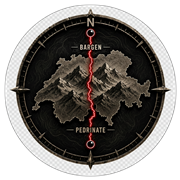
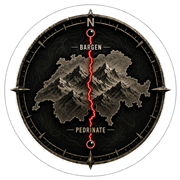
flagge

Changed region(s): [[0.0278, 0.0278, 0.9722, 0.9722]]

diff --git a/docs/index.html b/docs/index.html
@@ -6,24 +6,30 @@
     <title>NorthLine – Home</title>
     <meta name="description" content="NorthLine è il tracker live dell'avventura svizzera: mappa, statistiche, diario, replay e meteo in un unico sito.">
     <meta name="viewport" content="width=device-width, initial-scale=1.0">
+    <link rel="canonical" href="https://damzan06.github.io/northline/">
     <meta property="og:title" content="NorthLine – Live Tracker">
     <meta property="og:description" content="Mappa live, statistiche e diario dell'avventura NorthLine.">
     <meta property="og:type" content="website">
-    <meta property="og:image" content="https://damzan06.github.io/northline/assets/preview.png?v=20260715p">
+    <meta property="og:url" content="https://damzan06.github.io/northline/">
+    <meta property="og:image" content="https://damzan06.github.io/northline/assets/preview.png?v=20260715s">
+    <meta property="og:image:secure_url" content="https://damzan06.github.io/northline/assets/preview.png?v=20260715s">
+    <meta property="og:image:type" content="image/png">
     <meta property="og:image:width" content="1254">
     <meta property="og:image:height" content="1254">
     <meta name="twitter:card" content="summary_large_image">
-    <meta name="twitter:image" content="https://damzan06.github.io/northline/assets/preview.png?v=20260715p">
+    <meta name="twitter:title" content="NorthLine – Live Tracker">
+    <meta name="twitter:description" content="Mappa live, statistiche e diario dell'avventura NorthLine.">
+    <meta name="twitter:image" content="https://damzan06.github.io/northline/assets/preview.png?v=20260715s">
     <link rel="stylesheet" href="style.css">
-    <link rel="icon" type="image/png" sizes="32x32" href="assets/favicon-32.png?v=20260715q">
-    <link rel="icon" type="image/png" href="assets/favicon-v2.png?v=20260715q">
-    <link rel="apple-touch-icon" href="assets/apple-touch-icon.png?v=20260715q">
+    <link rel="icon" type="image/png" sizes="32x32" href="assets/favicon-32.png?v=20260715r">
+    <link rel="icon" type="image/png" href="assets/favicon-v2.png?v=20260715r">
+    <link rel="apple-touch-icon" href="assets/apple-touch-icon.png?v=20260715r">
 </head>
 
 <body data-page="home">
     <header class="topbar">
         <div class="brand">
-            <img src="assets/favicon-v2.png?v=20260715q" alt="Logo NorthLine" class="brand-icon">
+            <img src="assets/favicon-v2.png?v=20260715r" alt="Logo NorthLine" class="brand-icon">
             <div>
                 <span class="brand-title">NorthLine</span>
                 <span class="brand-subtitle">Adventure Tracker</span>
@@ -134,6 +140,7 @@
     <script src="script.js?v=20260715p"></script>
 </body>
 </html>
+
 
 
 

diff --git a/docs/live.html b/docs/live.html
@@ -6,25 +6,31 @@
     <title>NorthLine – Mappa Live</title>
     <meta name="description" content="Mappa live del NorthLine: posizione, percorso, checkpoint e statistiche in tempo reale.">
     <meta name="viewport" content="width=device-width, initial-scale=1.0">
+    <link rel="canonical" href="https://damzan06.github.io/northline/live.html">
     <meta property="og:title" content="NorthLine – Mappa Live">
     <meta property="og:description" content="Segui la posizione live e i dati aggiornati dell'avventura NorthLine.">
     <meta property="og:type" content="website">
-    <meta property="og:image" content="https://damzan06.github.io/northline/assets/preview.png?v=20260715p">
+    <meta property="og:url" content="https://damzan06.github.io/northline/live.html">
+    <meta property="og:image" content="https://damzan06.github.io/northline/assets/preview.png?v=20260715s">
+    <meta property="og:image:secure_url" content="https://damzan06.github.io/northline/assets/preview.png?v=20260715s">
+    <meta property="og:image:type" content="image/png">
     <meta property="og:image:width" content="1254">
     <meta property="og:image:height" content="1254">
     <meta name="twitter:card" content="summary_large_image">
-    <meta name="twitter:image" content="https://damzan06.github.io/northline/assets/preview.png?v=20260715p">
+    <meta name="twitter:title" content="NorthLine – Mappa Live">
+    <meta name="twitter:description" content="Segui la posizione live e i dati aggiornati dell'avventura NorthLine.">
+    <meta name="twitter:image" content="https://damzan06.github.io/northline/assets/preview.png?v=20260715s">
     <link rel="stylesheet" href="style.css?v=20260715e">
     <link rel="stylesheet" href="https://unpkg.com/leaflet/dist/leaflet.css">
-    <link rel="icon" type="image/png" sizes="32x32" href="assets/favicon-32.png?v=20260715q">
-    <link rel="icon" type="image/png" href="assets/favicon-v2.png?v=20260715q">
-    <link rel="apple-touch-icon" href="assets/apple-touch-icon.png?v=20260715q">
+    <link rel="icon" type="image/png" sizes="32x32" href="assets/favicon-32.png?v=20260715r">
+    <link rel="icon" type="image/png" href="assets/favicon-v2.png?v=20260715r">
+    <link rel="apple-touch-icon" href="assets/apple-touch-icon.png?v=20260715r">
 </head>
 
 <body data-page="live">
     <header class="topbar">
         <div class="brand">
-            <img src="assets/favicon-v2.png?v=20260715q" alt="Logo NorthLine" class="brand-icon">
+            <img src="assets/favicon-v2.png?v=20260715r" alt="Logo NorthLine" class="brand-icon">
             <div>
                 <span class="brand-title">NorthLine</span>
                 <span class="brand-subtitle">Live Tracker</span>
@@ -134,6 +140,7 @@
     <script src="script.js?v=20260715p"></script>
 </body>
 </html>
+
 
 
 

diff --git a/docs/dashboard.html b/docs/dashboard.html
@@ -10,24 +10,24 @@
     <meta property="og:description" content="Statistiche live e grafici dell'avventura NorthLine.">
     <meta property="og:type" content="website">
     <meta property="og:url" content="https://damzan06.github.io/northline/dashboard.html">
-    <meta property="og:image" content="https://damzan06.github.io/northline/assets/preview.png?v=20260715p">
-    <meta property="og:image:secure_url" content="https://damzan06.github.io/northline/assets/preview.png?v=20260715p">
+    <meta property="og:image" content="https://damzan06.github.io/northline/assets/preview.png?v=20260715s">
+    <meta property="og:image:secure_url" content="https://damzan06.github.io/northline/assets/preview.png?v=20260715s">
     <meta property="og:image:type" content="image/png">
     <meta property="og:image:width" content="1254">
     <meta property="og:image:height" content="1254">
     <meta name="twitter:card" content="summary_large_image">
     <meta name="twitter:title" content="NorthLine – Dashboard">
     <meta name="twitter:description" content="Statistiche live e grafici dell'avventura NorthLine.">
-    <meta name="twitter:image" content="https://damzan06.github.io/northline/assets/preview.png?v=20260715p">
+    <meta name="twitter:image" content="https://damzan06.github.io/northline/assets/preview.png?v=20260715s">
     <link rel="stylesheet" href="style.css?v=20260715p">
-    <link rel="icon" type="image/png" sizes="32x32" href="assets/favicon-32.png?v=20260715q">
-    <link rel="icon" type="image/png" href="assets/favicon-v2.png?v=20260715q">
-    <link rel="apple-touch-icon" href="assets/apple-touch-icon.png?v=20260715q">
+    <link rel="icon" type="image/png" sizes="32x32" href="assets/favicon-32.png?v=20260715r">
+    <link rel="icon" type="image/png" href="assets/favicon-v2.png?v=20260715r">
+    <link rel="apple-touch-icon" href="assets/apple-touch-icon.png?v=20260715r">
 </head>
 <body data-page="dashboard">
     <header class="topbar">
         <div class="brand">
-            <img src="assets/favicon-v2.png?v=20260715q" alt="Logo NorthLine" class="brand-icon">
+            <img src="assets/favicon-v2.png?v=20260715r" alt="Logo NorthLine" class="brand-icon">
             <div>
                 <span class="brand-title">NorthLine</span>
                 <span class="brand-subtitle">Dashboard</span>
@@ -110,6 +110,7 @@
     <script src="script.js?v=20260715p"></script>
 </body>
 </html>
+
 
 
 

diff --git a/docs/diary.html b/docs/diary.html
@@ -6,14 +6,14 @@
     <meta name="description" content="Diario NorthLine con racconti, foto, video e tappe giornaliere.">
     <meta name="viewport" content="width=device-width, initial-scale=1.0">
     <link rel="stylesheet" href="style.css">
-    <link rel="icon" type="image/png" sizes="32x32" href="assets/favicon-32.png?v=20260715q">
-    <link rel="icon" type="image/png" href="assets/favicon-v2.png?v=20260715q">
-    <link rel="apple-touch-icon" href="assets/apple-touch-icon.png?v=20260715q">
+    <link rel="icon" type="image/png" sizes="32x32" href="assets/favicon-32.png?v=20260715r">
+    <link rel="icon" type="image/png" href="assets/favicon-v2.png?v=20260715r">
+    <link rel="apple-touch-icon" href="assets/apple-touch-icon.png?v=20260715r">
 </head>
 <body data-page="diary">
     <header class="topbar">
         <div class="brand">
-            <img src="assets/favicon-v2.png?v=20260715q" alt="Logo NorthLine" class="brand-icon">
+            <img src="assets/favicon-v2.png?v=20260715r" alt="Logo NorthLine" class="brand-icon">
             <div>
                 <span class="brand-title">NorthLine</span>
                 <span class="brand-subtitle">Diario</span>
@@ -48,6 +48,7 @@
     <script src="script.js?v=20260715p"></script>
 </body>
 </html>
+
 
 
 

diff --git a/docs/gallery.html b/docs/gallery.html
@@ -6,14 +6,14 @@
     <meta name="description" content="Galleria fotografica NorthLine con filtro per giorno, checkpoint, località e bivacchi.">
     <meta name="viewport" content="width=device-width, initial-scale=1.0">
     <link rel="stylesheet" href="style.css">
-    <link rel="icon" type="image/png" sizes="32x32" href="assets/favicon-32.png?v=20260715q">
-    <link rel="icon" type="image/png" href="assets/favicon-v2.png?v=20260715q">
-    <link rel="apple-touch-icon" href="assets/apple-touch-icon.png?v=20260715q">
+    <link rel="icon" type="image/png" sizes="32x32" href="assets/favicon-32.png?v=20260715r">
+    <link rel="icon" type="image/png" href="assets/favicon-v2.png?v=20260715r">
+    <link rel="apple-touch-icon" href="assets/apple-touch-icon.png?v=20260715r">
 </head>
 <body data-page="gallery">
     <header class="topbar">
         <div class="brand">
-            <img src="assets/favicon-v2.png?v=20260715q" alt="Logo NorthLine" class="brand-icon">
+            <img src="assets/favicon-v2.png?v=20260715r" alt="Logo NorthLine" class="brand-icon">
             <div>
                 <span class="brand-title">NorthLine</span>
                 <span class="brand-subtitle">Galleria</span>
@@ -66,6 +66,7 @@
     <script src="script.js?v=20260715p"></script>
 </body>
 </html>
+
 
 
 

diff --git a/docs/progress.html b/docs/progress.html
@@ -6,14 +6,14 @@
     <meta name="description" content="Page progressi del NorthLine con badge sbloccati automaticamente.">
     <meta name="viewport" content="width=device-width, initial-scale=1.0">
     <link rel="stylesheet" href="style.css">
-    <link rel="icon" type="image/png" sizes="32x32" href="assets/favicon-32.png?v=20260715q">
-    <link rel="icon" type="image/png" href="assets/favicon-v2.png?v=20260715q">
-    <link rel="apple-touch-icon" href="assets/apple-touch-icon.png?v=20260715q">
+    <link rel="icon" type="image/png" sizes="32x32" href="assets/favicon-32.png?v=20260715r">
+    <link rel="icon" type="image/png" href="assets/favicon-v2.png?v=20260715r">
+    <link rel="apple-touch-icon" href="assets/apple-touch-icon.png?v=20260715r">
 </head>
 <body data-page="progress">
     <header class="topbar">
         <div class="brand">
-            <img src="assets/favicon-v2.png?v=20260715q" alt="Logo NorthLine" class="brand-icon">
+            <img src="assets/favicon-v2.png?v=20260715r" alt="Logo NorthLine" class="brand-icon">
             <div>
                 <span class="brand-title">NorthLine</span>
                 <span class="brand-subtitle">Progressi</span>
@@ -48,6 +48,7 @@
     <script src="script.js?v=20260715p"></script>
 </body>
 </html>
+
 
 
 

diff --git a/docs/project.html b/docs/project.html
@@ -6,14 +6,14 @@
     <meta name="description" content="Informazioni sul progetto NorthLine: percorso, motivazioni, preparazione e curiosità.">
     <meta name="viewport" content="width=device-width, initial-scale=1.0">
     <link rel="stylesheet" href="style.css">
-    <link rel="icon" type="image/png" sizes="32x32" href="assets/favicon-32.png?v=20260715q">
-    <link rel="icon" type="image/png" href="assets/favicon-v2.png?v=20260715q">
-    <link rel="apple-touch-icon" href="assets/apple-touch-icon.png?v=20260715q">
+    <link rel="icon" type="image/png" sizes="32x32" href="assets/favicon-32.png?v=20260715r">
+    <link rel="icon" type="image/png" href="assets/favicon-v2.png?v=20260715r">
+    <link rel="apple-touch-icon" href="assets/apple-touch-icon.png?v=20260715r">
 </head>
 <body data-page="project">
     <header class="topbar">
         <div class="brand">
-            <img src="assets/favicon-v2.png?v=20260715q" alt="Logo NorthLine" class="brand-icon">
+            <img src="assets/favicon-v2.png?v=20260715r" alt="Logo NorthLine" class="brand-icon">
             <div>
                 <span class="brand-title">NorthLine</span>
                 <span class="brand-subtitle">Il progetto</span>
@@ -81,6 +81,7 @@
     <script src="script.js?v=20260715p"></script>
 </body>
 </html>
+
 
 
 

diff --git a/docs/replay.html b/docs/replay.html
@@ -7,14 +7,14 @@
     <meta name="viewport" content="width=device-width, initial-scale=1.0">
     <link rel="stylesheet" href="style.css">
     <link rel="stylesheet" href="https://unpkg.com/leaflet/dist/leaflet.css">
-    <link rel="icon" type="image/png" sizes="32x32" href="assets/favicon-32.png?v=20260715q">
-    <link rel="icon" type="image/png" href="assets/favicon-v2.png?v=20260715q">
-    <link rel="apple-touch-icon" href="assets/apple-touch-icon.png?v=20260715q">
+    <link rel="icon" type="image/png" sizes="32x32" href="assets/favicon-32.png?v=20260715r">
+    <link rel="icon" type="image/png" href="assets/favicon-v2.png?v=20260715r">
+    <link rel="apple-touch-icon" href="assets/apple-touch-icon.png?v=20260715r">
 </head>
 <body data-page="replay">
     <header class="topbar">
         <div class="brand">
-            <img src="assets/favicon-v2.png?v=20260715q" alt="Logo NorthLine" class="brand-icon">
+            <img src="assets/favicon-v2.png?v=20260715r" alt="Logo NorthLine" class="brand-icon">
             <div>
                 <span class="brand-title">NorthLine</span>
                 <span class="brand-subtitle">Replay</span>
@@ -66,6 +66,7 @@
     <script src="script.js?v=20260715p"></script>
 </body>
 </html>
+
 
 
 

diff --git a/docs/timeline.html b/docs/timeline.html
@@ -6,14 +6,14 @@
     <meta name="description" content="Timeline dell'avventura NorthLine con eventi cliccabili e mappa sincronizzata.">
     <meta name="viewport" content="width=device-width, initial-scale=1.0">
     <link rel="stylesheet" href="style.css">
-    <link rel="icon" type="image/png" sizes="32x32" href="assets/favicon-32.png?v=20260715q">
-    <link rel="icon" type="image/png" href="assets/favicon-v2.png?v=20260715q">
-    <link rel="apple-touch-icon" href="assets/apple-touch-icon.png?v=20260715q">
+    <link rel="icon" type="image/png" sizes="32x32" href="assets/favicon-32.png?v=20260715r">
+    <link rel="icon" type="image/png" href="assets/favicon-v2.png?v=20260715r">
+    <link rel="apple-touch-icon" href="assets/apple-touch-icon.png?v=20260715r">
 </head>
 <body data-page="timeline">
     <header class="topbar">
         <div class="brand">
-            <img src="assets/favicon-v2.png?v=20260715q" alt="Logo NorthLine" class="brand-icon">
+            <img src="assets/favicon-v2.png?v=20260715r" alt="Logo NorthLine" class="brand-icon">
             <div>
                 <span class="brand-title">NorthLine</span>
                 <span class="brand-subtitle">Timeline</span>
@@ -48,6 +48,7 @@
     <script src="script.js?v=20260715p"></script>
 </body>
 </html>
+
 
 
 

diff --git a/docs/google7249d1d41f8a442f.html b/docs/google7249d1d41f8a442f.html
@@ -1,1 +1,1 @@
-google-site-verification: google7249d1d41f8a442f.html
+google-site-verification: google7249d1d41f8a442f.html